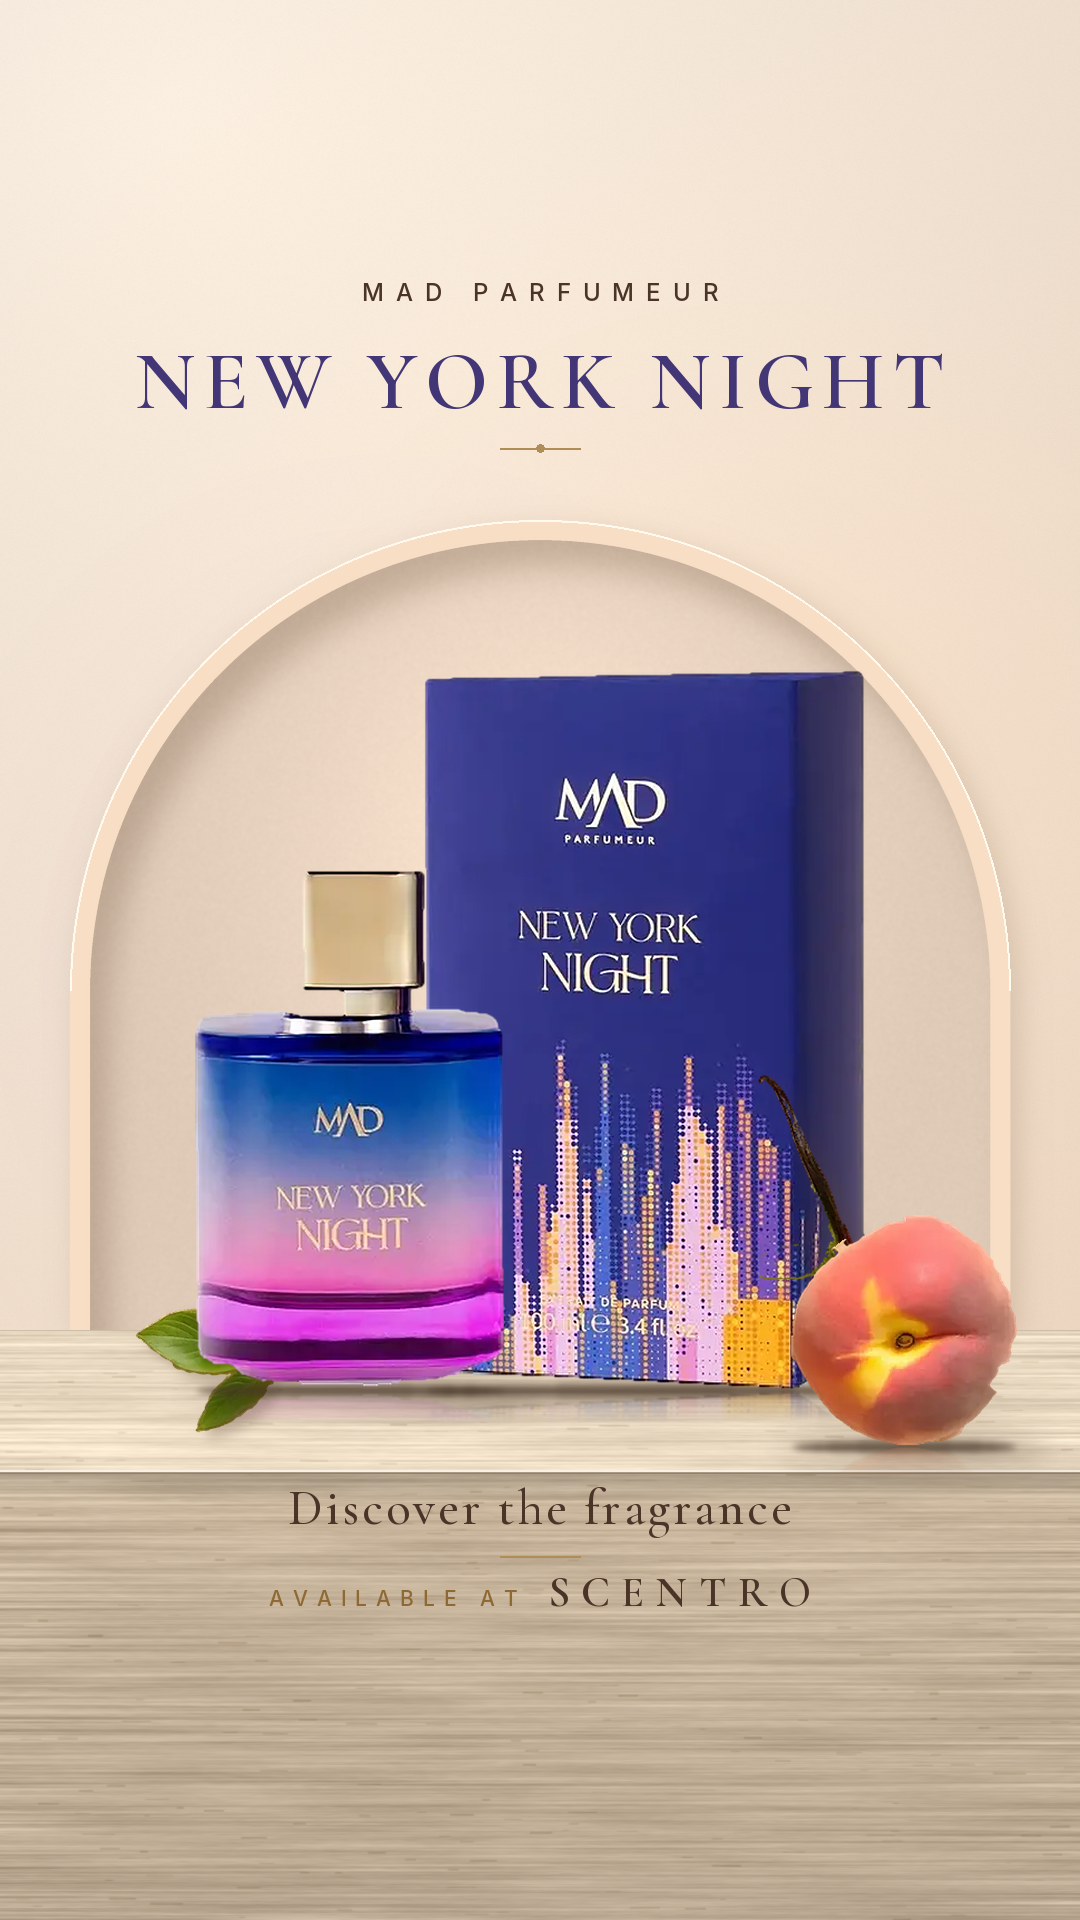
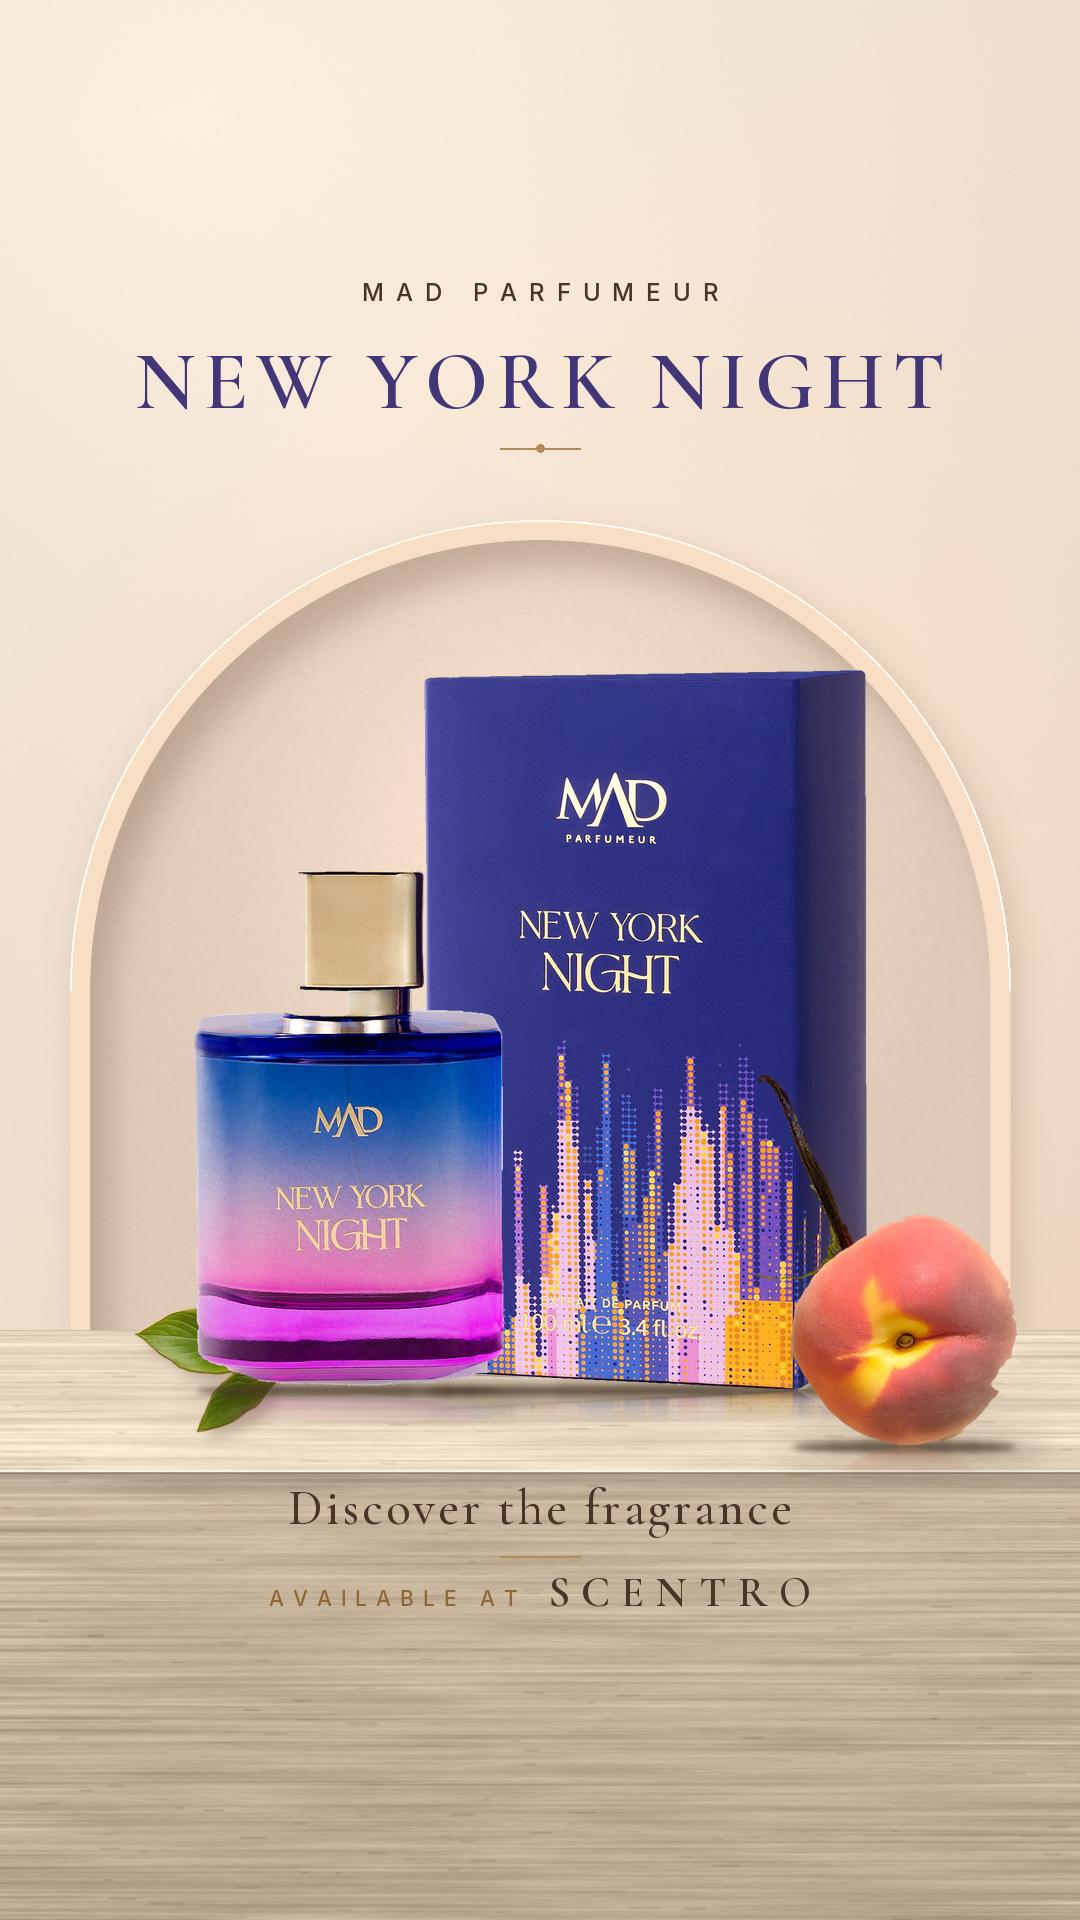
New York Night story: rebuilt from official 2000px packshot and flat-lay (sharper bottle, box, peach, vanilla, leaves)
Claude-Session: https://claude.ai/code/session_01UApyk7Kdwc7MEVpfJtnJsr

diff --git a/scentro/stories/build_stories.py b/scentro/stories/build_stories.py
@@ -73,24 +73,25 @@ def story_nyn():
     glow(img, 760, 700, 600, 500, (255, 214, 176), 0.20)            # warm peach light from the right
     B.niche(img, s); B.travertine(img, s)
 
-    box = B.load_clean(A + 'nyn_box.png', 720)
-    bt = np.array(Image.open(A + 'nyn_bottle.png').convert('RGBA')); lo = bt[-16:, :, :3].astype(int)
-    bt[-16:, :, 3][(lo.min(axis=2) > 165) & (lo.max(axis=2) - lo.min(axis=2) < 40)] = 0
+    box = B.load_clean(A + 'nyn_box_hi.png', 720)
+    bt = np.array(Image.open(A + 'nyn_bottle_hi.png').convert('RGBA')); lo = bt[-30:, :, :3].astype(int)
+    bt[-30:, :, 3][(lo.min(axis=2) > 165) & (lo.max(axis=2) - lo.min(axis=2) < 40)] = 0
+    bt[150:236, 0:188, 3] = 0                                                    # photo's soft shadow line beside the cap base (left of the cap only)
     Image.fromarray(bt).save('/tmp/_bottle.png'); bottle = B.load_clean('/tmp/_bottle.png', 520)               # the real bottle, larger than the box's real ratio (it stands in front)
     bw, bh = bottle.size; xw = box.width; ov = 80
     left = 540 - (bw + xw - ov) / 2 - 10; box_cx = left + bw - ov + xw / 2; box_r = left + bw - ov + xw
     B.stage_bottle(img, box, box_cx, B.BASE_Y)
     # ingredients = real pixels from the supplied flat-lay (peach, vanilla, leaves), grounded with alpha-shaped shadows
-    p0 = np.array(Image.open(A + 'ing_vanilla_pods.png').convert('RGBA')); p0[(p0[..., :3].max(axis=2) > 120) | (p0[..., 1].astype(int) > p0[..., 0].astype(int) - 2), 3] = 0
-    pods = Image.fromarray(p0); pods = pods.resize((int(pods.width * .62), int(pods.height * .62)), Image.LANCZOS)
+    p0 = np.array(Image.open(A + 'ing_hi_pods.png').convert('RGBA')); p0[(p0[..., :3].max(axis=2) > 120) | (p0[..., 1].astype(int) > p0[..., 0].astype(int) - 2), 3] = 0
+    pods = Image.fromarray(p0); pods = pods.resize((int(pods.width * .248), int(pods.height * .248)), Image.LANCZOS)
     pods = crop_alpha(pods.rotate(-20, expand=True, resample=Image.BICUBIC)); pods.save('/tmp/_pods.png'); pods = B.load_clean('/tmp/_pods.png', 330)
     drop_shadow(img, pods, int(box_r + 100 - pods.width), B.BASE_Y + 14 - pods.height, dx=12, dy=8, blur=7, op=0.30)
-    pe = Image.open(A + 'ing_peach.png').convert('RGBA'); a_ = np.array(pe); hh, ww = a_.shape[:2]; yy_, xx_ = np.mgrid[0:hh, 0:ww]; cxp, cyp = ww * 0.50, hh * 0.52
+    pe = Image.open(A + 'ing_hi_peach.png').convert('RGBA'); a_ = np.array(pe); hh, ww = a_.shape[:2]; yy_, xx_ = np.mgrid[0:hh, 0:ww]; cxp, cyp = ww * 0.50, hh * 0.52
     outside = ((xx_ - cxp) / (ww * 0.49)) ** 2 + ((yy_ - cyp) / (hh * 0.49)) ** 2 > 1.0
     a_[outside & (xx_ < cxp) & (yy_ < cyp), 3] = 0; Image.fromarray(a_).save('/tmp/_peach.png')      # drop the stem fragment outside the fruit outline only
     pe = B.load_clean('/tmp/_peach.png', 232)
     B.stage_bottle(img, pe, box_r + 38, B.BASE_Y + 56)
-    lf = Image.open(A + 'ing_leaves_a.png').convert('RGBA').rotate(12, expand=True, resample=Image.BICUBIC); lf.save('/tmp/_leaf.png'); lf = B.load_clean('/tmp/_leaf.png', 150)
+    lf = Image.open(A + 'ing_hi_leaf_bl.png').convert('RGBA').rotate(12, expand=True, resample=Image.BICUBIC); lf.save('/tmp/_leaf.png'); lf = B.load_clean('/tmp/_leaf.png', 150)
     drop_shadow(img, lf, int(left - 62), B.BASE_Y + 52 - lf.height, dx=10, dy=7, blur=6, op=0.30)
     B.stage_bottle(img, bottle, left + bw / 2, B.BASE_Y)
 

diff --git a/scentro/stories/extract_ingredients.py b/scentro/stories/extract_ingredients.py
@@ -3,26 +3,26 @@ Usage: python3 extract_ingredients.py flat_nobottle.png outdir"""
 import sys, numpy as np, cv2
 from PIL import Image
 from scipy import ndimage as ndi
-src, out = sys.argv[1], sys.argv[2]
+src, out = sys.argv[1], sys.argv[2]; K = float(sys.argv[3]) if len(sys.argv) > 3 else 1.0     # K = source width / 828 (rects below are in 828-px coordinates)
 rgb = np.array(Image.open(src).convert('RGB')); hsv = cv2.cvtColor(rgb, cv2.COLOR_RGB2HSV).astype(np.float32)
 H, S, V = hsv[..., 0] * 2, hsv[..., 1] / 255, hsv[..., 2] / 255            # H in degrees
 green = (H > 55) & (H < 110) & (S > 0.28) & (V > 0.25)
 white = (S < 0.13) & (V > 0.80)                                              # lily bells / highlights
 dark = (V < 0.42)                                                            # vanilla pods / stems' shadows
 def cut(name, rect, key, keep=1, grow=2, ellipse=False, minsize=60):
-    x0, y0, x1, y1 = rect; m = np.zeros(key.shape, bool); m[y0:y1, x0:x1] = key[y0:y1, x0:x1]
+    x0, y0, x1, y1 = [int(round(v * K)) for v in rect]; m = np.zeros(key.shape, bool); it = lambda n: max(1, int(round(n * K))); m[y0:y1, x0:x1] = key[y0:y1, x0:x1]
     if ellipse:
         yy, xx = np.mgrid[0:m.shape[0], 0:m.shape[1]]; cx, cy = (x0 + x1) / 2, (y0 + y1) / 2
         m &= ((xx - cx) / ((x1 - x0) / 2)) ** 2 + ((yy - cy) / ((y1 - y0) / 2)) ** 2 <= 1.0
-    m = ndi.binary_closing(m, iterations=3); m = ndi.binary_fill_holes(m)
+    m = ndi.binary_closing(m, iterations=it(3)); m = ndi.binary_fill_holes(m)
     lab, n = ndi.label(m)
     if n == 0: print(name, 'EMPTY'); return
     sz = ndi.sum(m, lab, range(1, n + 1)); order = np.argsort(sz)[::-1]
     mm = np.zeros_like(m)
     for k in order[:keep]:
-        if sz[k] >= minsize: mm |= lab == k + 1
-    mm = ndi.binary_opening(mm, iterations=1); mm = ndi.binary_dilation(mm, iterations=grow) if grow else mm
-    a = cv2.GaussianBlur(mm.astype(np.float32), (0, 0), 0.9); a = np.clip((a - .2) / .6, 0, 1)
+        if sz[k] >= minsize * K * K: mm |= lab == k + 1
+    mm = ndi.binary_opening(mm, iterations=it(1)); mm = ndi.binary_dilation(mm, iterations=it(grow)) if grow else mm
+    a = cv2.GaussianBlur(mm.astype(np.float32), (0, 0), 0.9 * K); a = np.clip((a - .2) / .6, 0, 1)
     ys, xs = np.where(a > .02); rgba = np.dstack([rgb, (a * 255).astype(np.uint8)])
     Image.fromarray(rgba).crop((xs.min(), ys.min(), xs.max() + 1, ys.max() + 1)).save(f'{out}/{name}.png'); print(name, xs.max() - xs.min() + 1, ys.max() - ys.min() + 1)
 # peach: its own colour (pink/orange, more saturated than the backdrop) intersected with an ellipse

diff --git a/scentro/stories/README.md b/scentro/stories/README.md
@@ -4,3 +4,7 @@ Sources (the user's three supplied photos) in `assets/source/`; cutouts in `asse
 Safe zones respected: no important content above y=250 or below y=1620.
 Notes used (verified on Fragrantica / Parfumo): New York Night - peach, vanilla (both sites), lily of the valley (Parfumo + brand flat-lay). Golden Soul - ylang-ylang, neroli / orange blossom, jasmine, cedarwood.
 No inspiration claims are made on either Story (Bond No. 9 / Armani Prive not mentioned).
+
+## Update: sharper sources
+New York Night now uses the official MAD Parfumeur Singapore store images (2000x2000): packshot `assets/source/new_york_night_packshot_official_2000.jpg` (bottle + box) and flat-lay `..._flatlay_official_2000.jpg` (ingredients, extract_ingredients.py with scale 2.415). Cutouts: `nyn_bottle_hi.png`, `nyn_box_hi.png`, `ing_hi_*.png`.
+Golden Soul: official madparfum.com page images top out at 615 px and Fragrantica (id 120894) has only a bottle-only 750x1000 photo, so the supplied 828 px box+bottle photo remains the best source for that Story.
